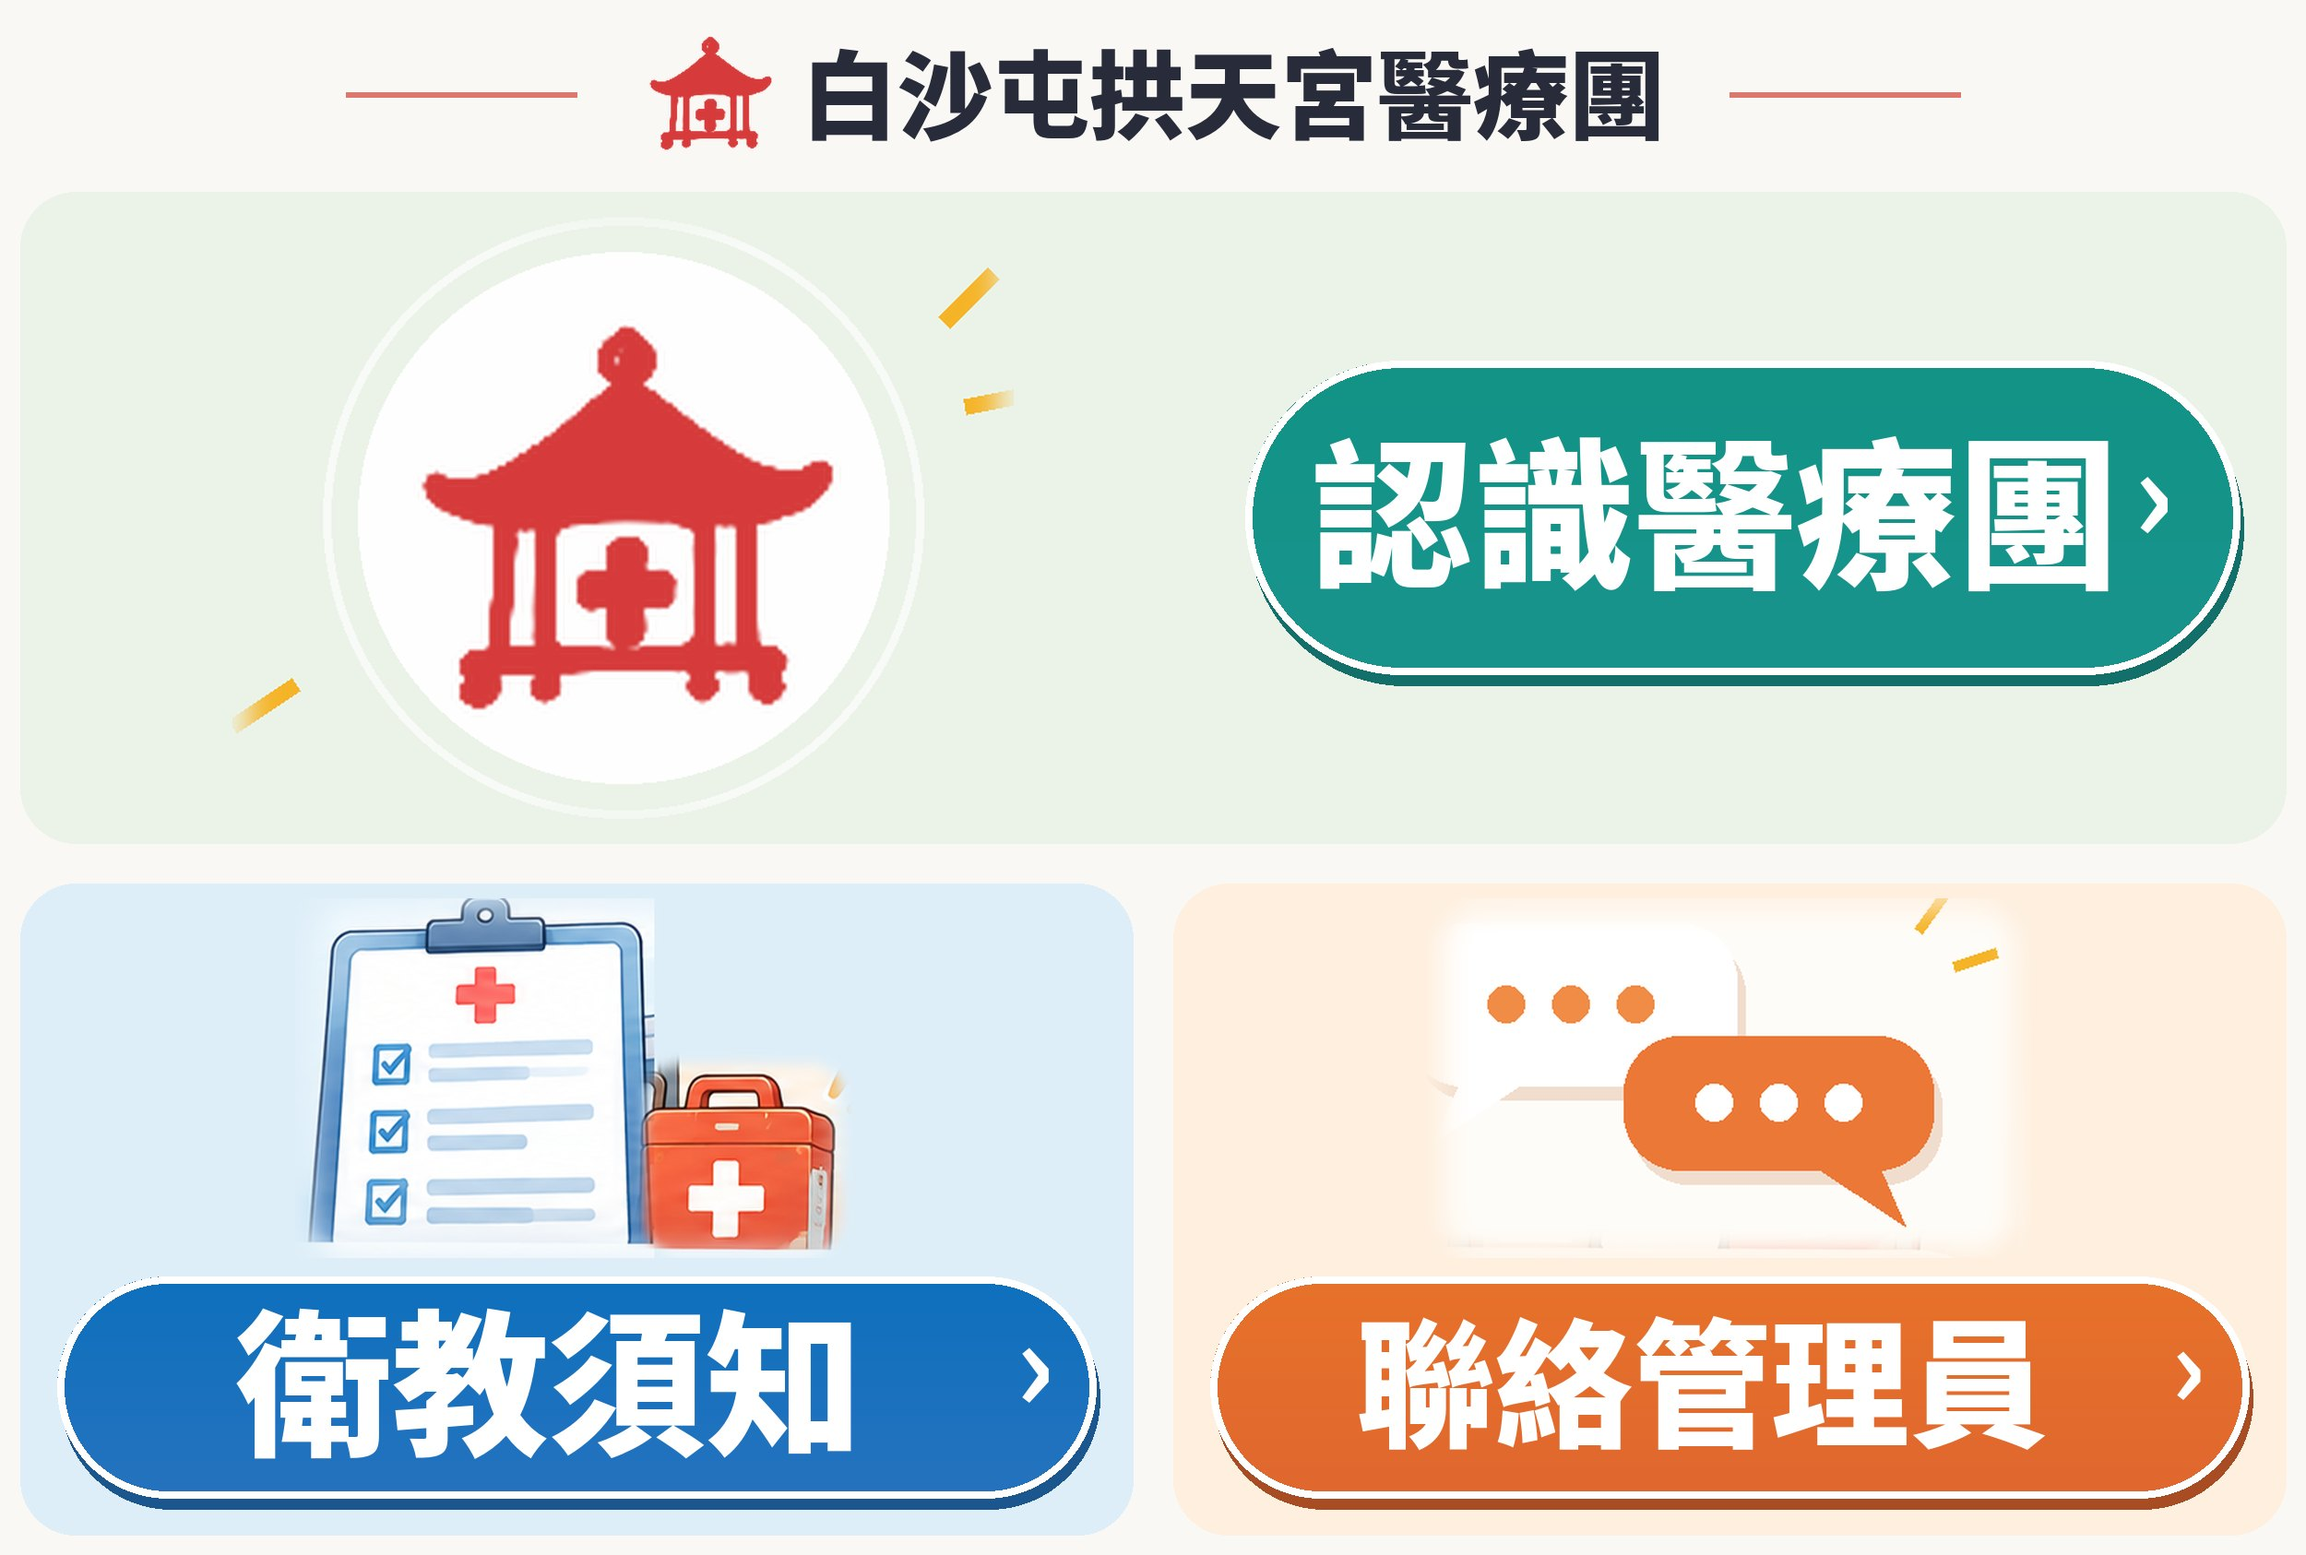
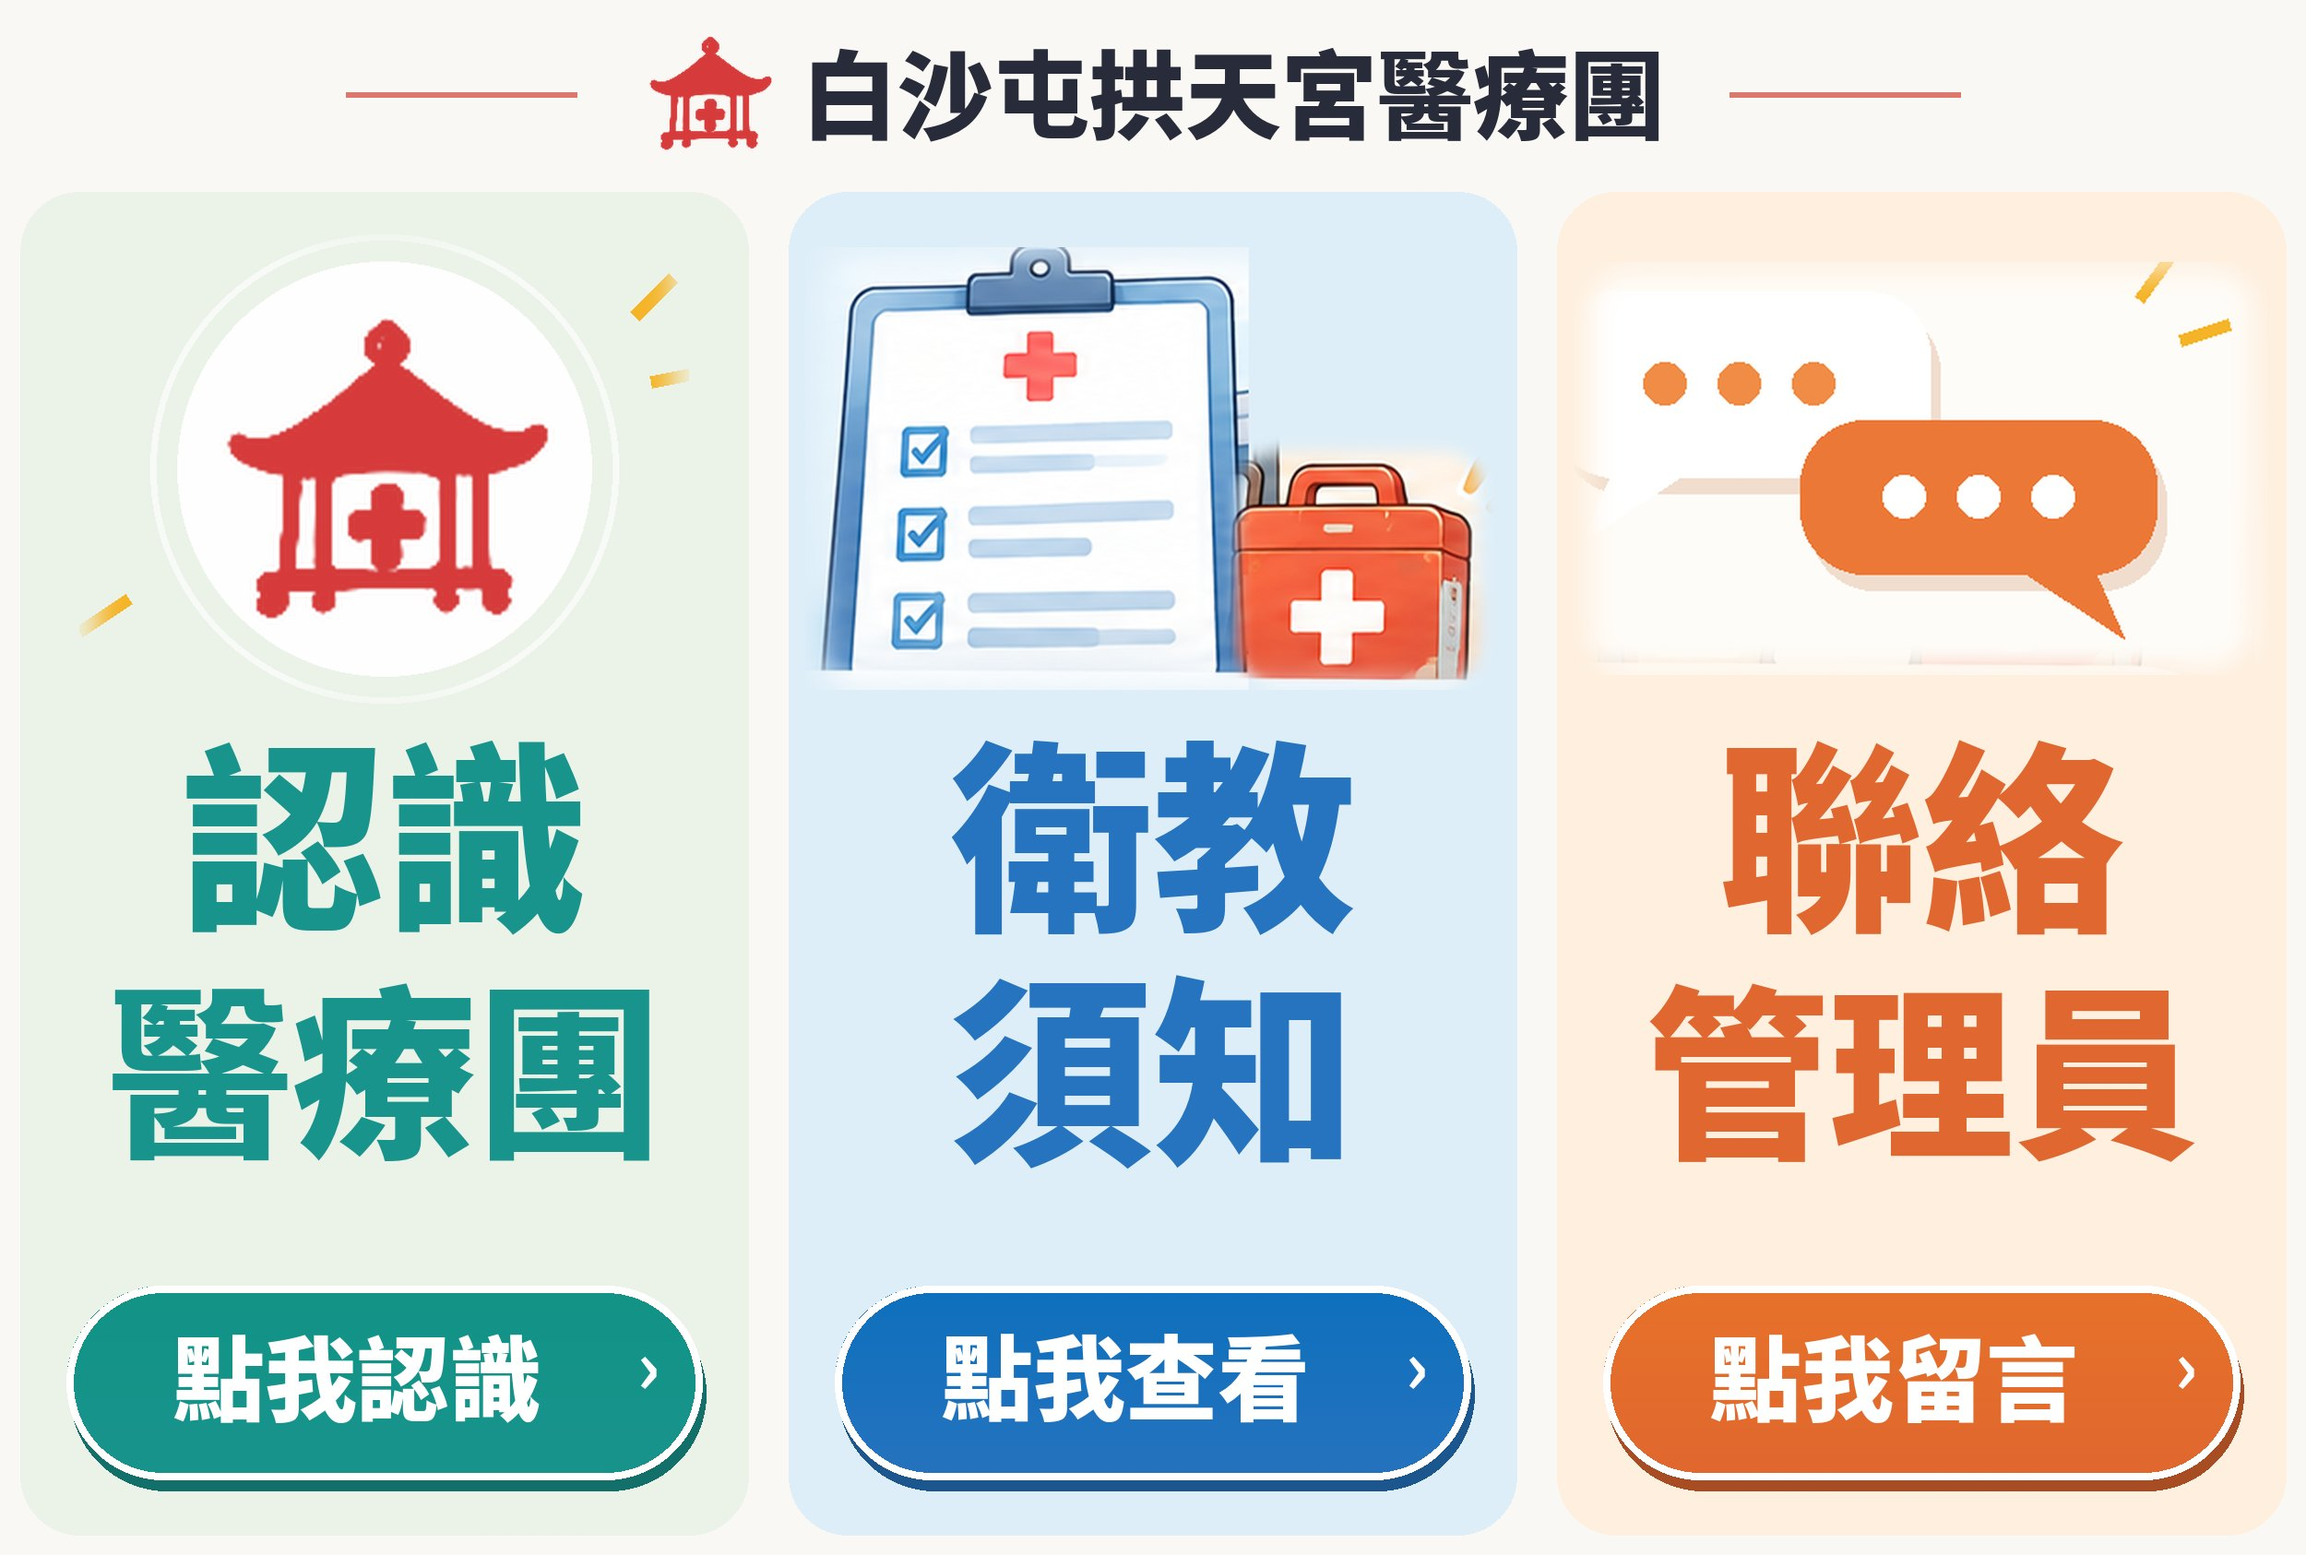
圖文選單改成一排三張直卡（2500×1686）
Claude-Session: https://claude.ai/code/session_01UgnuMUR9BFixKJirFzAXJh

diff --git a/security/worker.js b/security/worker.js
@@ -110,13 +110,12 @@ async function parseRoute(req, env, json) {
 const SITE = 'https://tsushin-buishatun.pages.dev';
 const LIFF = id => 'https://liff.line.me/' + id;
 // 三張選單都是 LINE 標準大尺寸 2500×1686（非標準高度在手機上會被壓扁）
-// 上方 186px：標題列（一般民眾）或分頁列（團員：左 團員專區、右 一般資訊）；下面一張大卡＋兩張小卡
-const MW = 2500, MH = 1686, TAB = 186, ROW = 750;
-const grid3 = (acts, top) => [
-  { bounds: { x: 0, y: top, width: MW, height: TAB + ROW - top }, action: acts[0] },
-  { bounds: { x: 0, y: TAB + ROW, width: MW / 2, height: MH - TAB - ROW }, action: acts[1] },
-  { bounds: { x: MW / 2, y: TAB + ROW, width: MW / 2, height: MH - TAB - ROW }, action: acts[2] },
-];
+// 上方 186px：標題列（一般民眾）或分頁列（團員：左 團員專區、右 一般資訊）；下面一排三張直卡
+const MW = 2500, MH = 1686, TAB = 186;
+const grid3 = (acts, top) => acts.map((a, i) => {
+  const cw = Math.floor(MW / 3), x = i * cw;
+  return { bounds: { x, y: top, width: i === 2 ? MW - x : cw, height: MH - top }, action: a };
+});
 const tabs = () => [
   { bounds: { x: 0, y: 0, width: MW / 2, height: TAB }, action: { type: 'richmenuswitch', richMenuAliasId: 'bst-member', data: 'tab=member' } },
   { bounds: { x: MW / 2, y: 0, width: MW / 2, height: TAB }, action: { type: 'richmenuswitch', richMenuAliasId: 'bst-member-b', data: 'tab=public' } },
